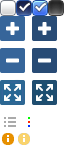
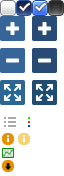
Modificado el campo downloadFile. Ahora acepta una string con el nombre del fichero que se va a descargar.

diff --git a/base/src/layer-download-button.js b/base/src/layer-download-button.js
@@ -2,8 +2,9 @@ define([ 'message-bus', 'ui/ui' ], function(bus, ui) {
 	var idDownloadInfo = {};
 
 	function getDownloadLink(obj) {
-		if (obj.downloadFile) {
-			return 'static/downloads/' + obj.id + '.zip';
+		if (obj.hasOwnProperty('downloadFile')) {
+			const fileName = (obj.downloadFile.indexOf('.zip') === -1) ? obj.downloadFile + '.zip' : obj.downloadFile;
+			return 'static/downloads/' + fileName;
 		}
 		return null;
 	}
@@ -25,7 +26,7 @@ define([ 'message-bus', 'ui/ui' ], function(bus, ui) {
 
 	bus.listen('before-adding-layers', function() {
 		var showDownloadLayerAction = function(portalLayer) {
-			if (getDownloadLink(portalLayer) != null) {
+			if (getDownloadLink(portalLayer) !== null) {
 				return buildLink(portalLayer.id, 'show-layer-download');
 			}
 			return null;
@@ -35,7 +36,7 @@ define([ 'message-bus', 'ui/ui' ], function(bus, ui) {
 	});
 
 	bus.listen('add-layer', function(event, layerInfo) {
-		if (getDownloadLink(layerInfo) != null) {
+		if (getDownloadLink(layerInfo) !== null) {
 			idDownloadInfo['layer-' + layerInfo.id] = {
 				'link': getDownloadLink(layerInfo),
 				'title': layerInfo.label

diff --git a/base/src/layer-list.css b/base/src/layer-list.css
@@ -80,7 +80,7 @@ td.layer_visibility {
 }
 
 .layer_download_button {
-  background: url("images/download.png") no-repeat scroll 0 -1px;
+  background: url("images/ui-elements.png") no-repeat scroll 0 -158px rgba(0, 0, 0, 0);
 }
 
 .layer_action_button {
@@ -91,15 +91,6 @@ td.layer_visibility {
   text-decoration: none;
   width: 16px;
   cursor: pointer;
-}
-
-.layer_stats_button {
-  background: url("images/object-indicators.png") no-repeat;
-  display: inline-block;
-  float: right;
-  padding: 0;
-  text-decoration: none;
-  width: 26px;
 }
 
 .ui-input-container>.layer_info_button {
